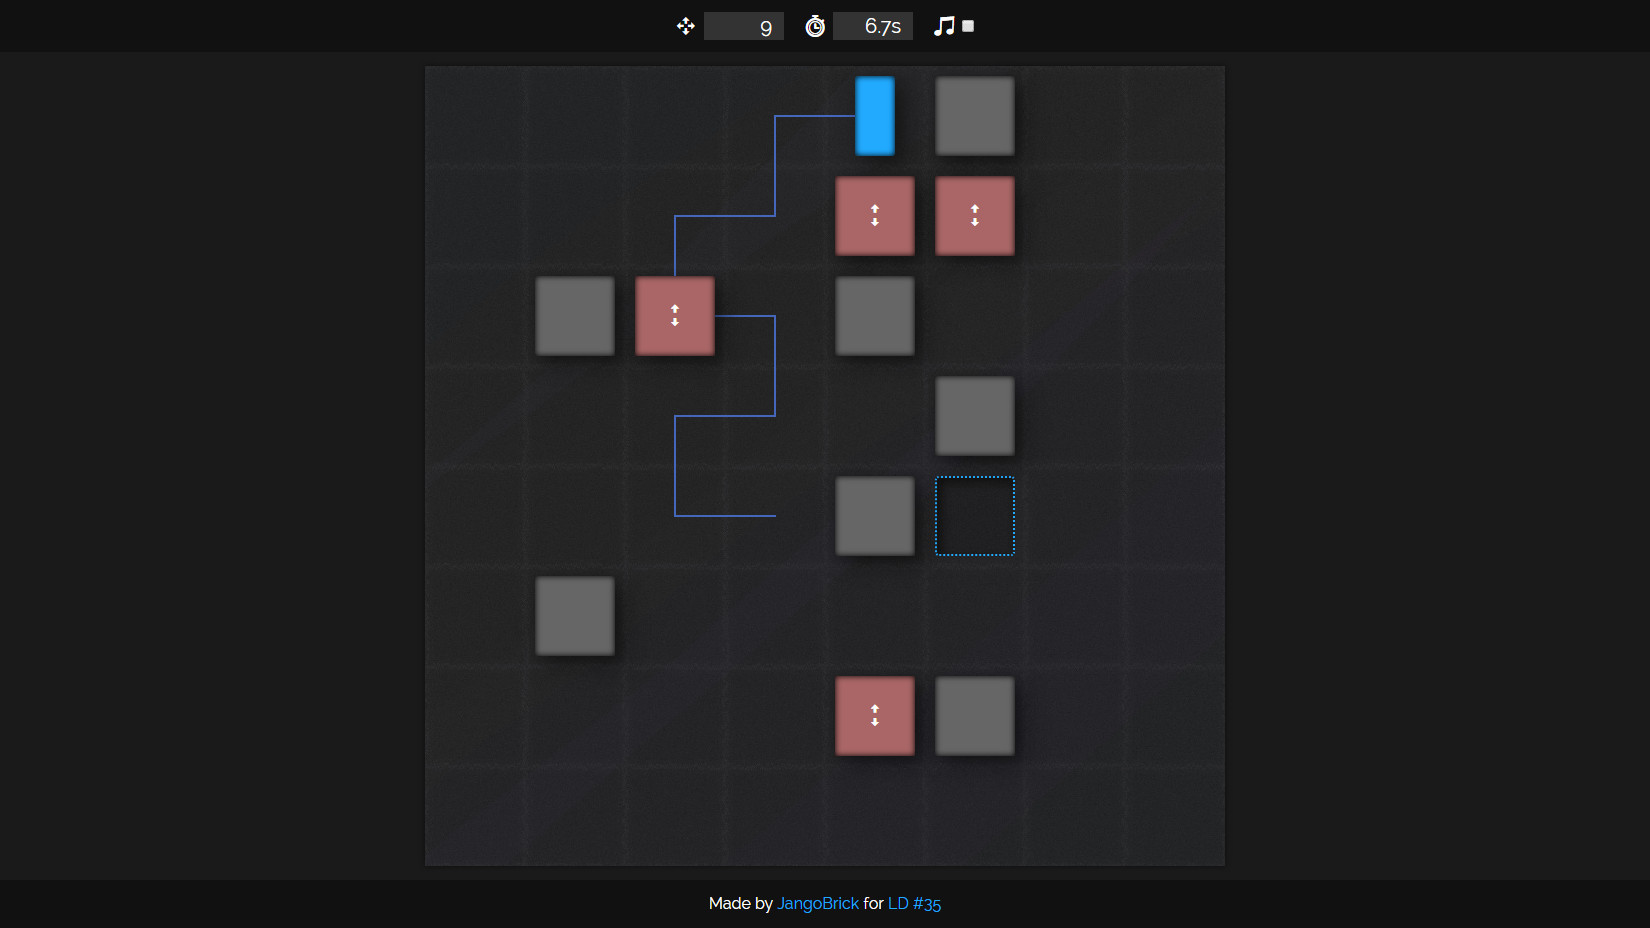
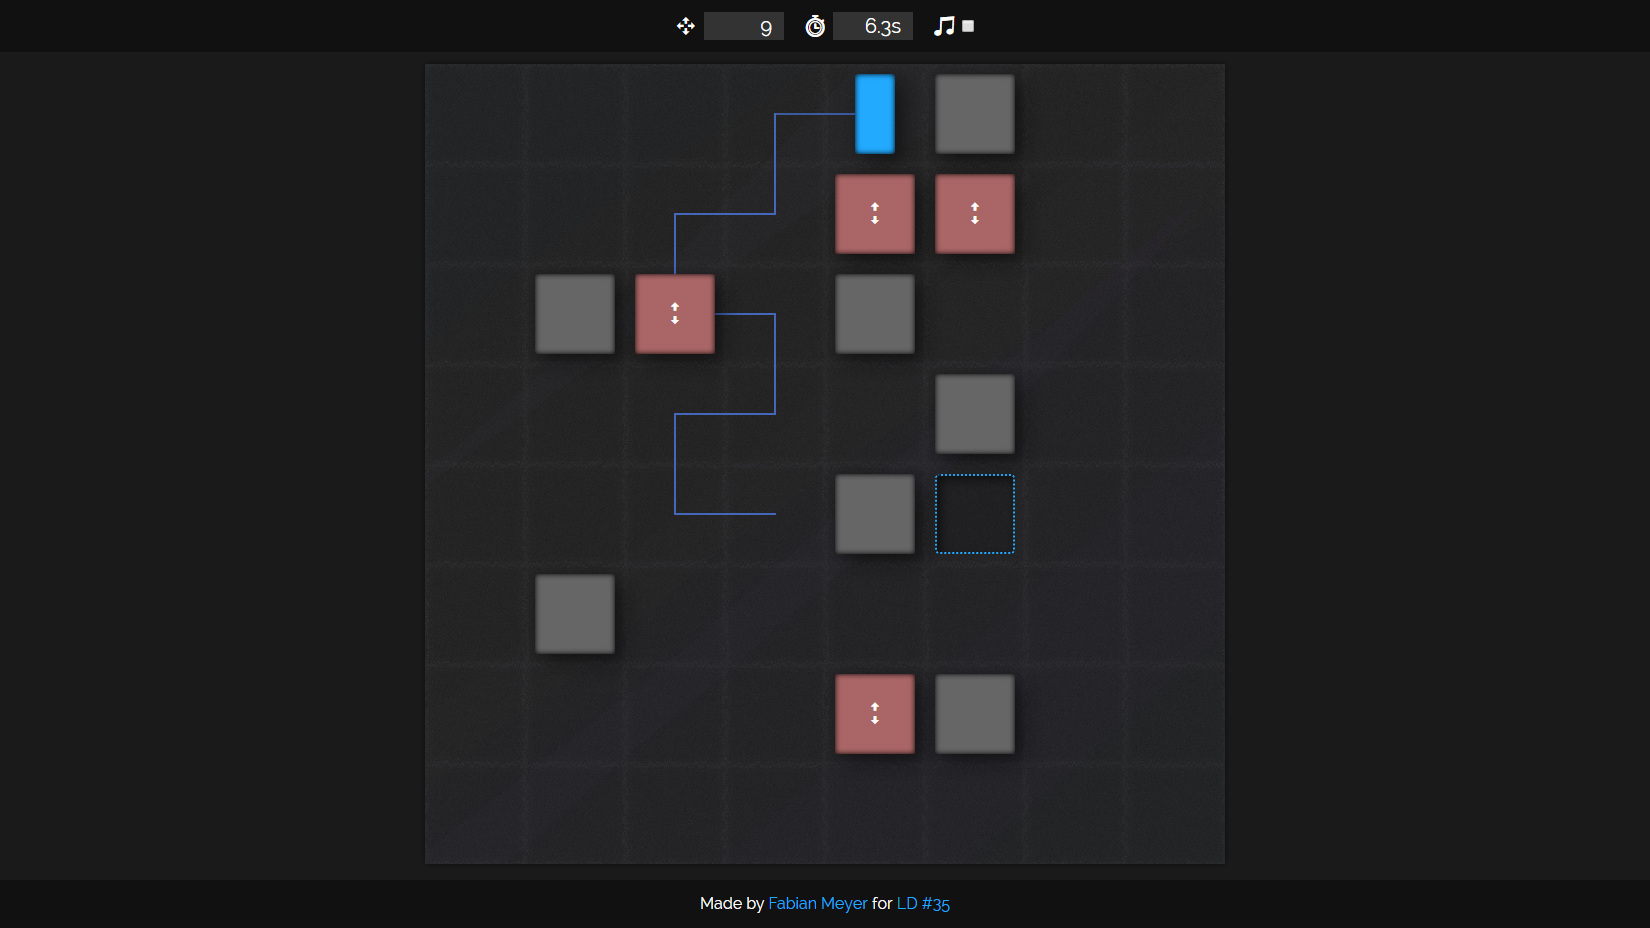
Update author

diff --git a/js/main.js b/js/main.js
@@ -141,11 +141,11 @@ $(function () {
             }
         }
 
-        window.localStorage.setItem("jangobrick.ld35.scores", s);
+        window.localStorage.setItem("net.meyfa.ld35.scores", s);
 
     };
 
-    var scoresString = window.localStorage.getItem("jangobrick.ld35.scores");
+    var scoresString = window.localStorage.getItem("net.meyfa.ld35.scores");
     if (scoresString) {
 
         var scoresStringSpl = scoresString.split("|");
@@ -455,11 +455,11 @@ $(function () {
             $music.get(0).pause();
         }
 
-        window.localStorage.setItem("jangobrick.ld35.music", play ? "yes" : "no");
+        window.localStorage.setItem("net.meyfa.ld35.music", play ? "yes" : "no");
 
     });
 
-    if (window.localStorage.getItem("jangobrick.ld35.music") === "no") {
+    if (window.localStorage.getItem("net.meyfa.ld35.music") === "no") {
 
         if (typeof music.pause !== "function")
             return;

diff --git a/index.html b/index.html
@@ -2,7 +2,7 @@
 <html>
     <head>
         <meta charset="utf-8" />
-        <title>CubeShift // JangoBrick</title>
+        <title>CubeShift by Fabian Meyer</title>
         <meta name="viewport" content="width=device-width, initial-scale=1, maximum-scale=1.0, user-scalable=no" />
         <link href="https://fonts.googleapis.com/css?family=Raleway:400,700" rel="stylesheet">
         <link rel="stylesheet" href="fontello/css/fontello.css" />
@@ -132,7 +132,7 @@
 
 
         <div id="footer">
-            Made by <a href="http://jangobrick.de">JangoBrick</a> for <a href="http://ludumdare.com">LD #35</a>
+            Made by <a href="http://meyfa.net">Fabian Meyer</a> for <a href="http://ludumdare.com">LD #35</a>
         </div>
 
 
